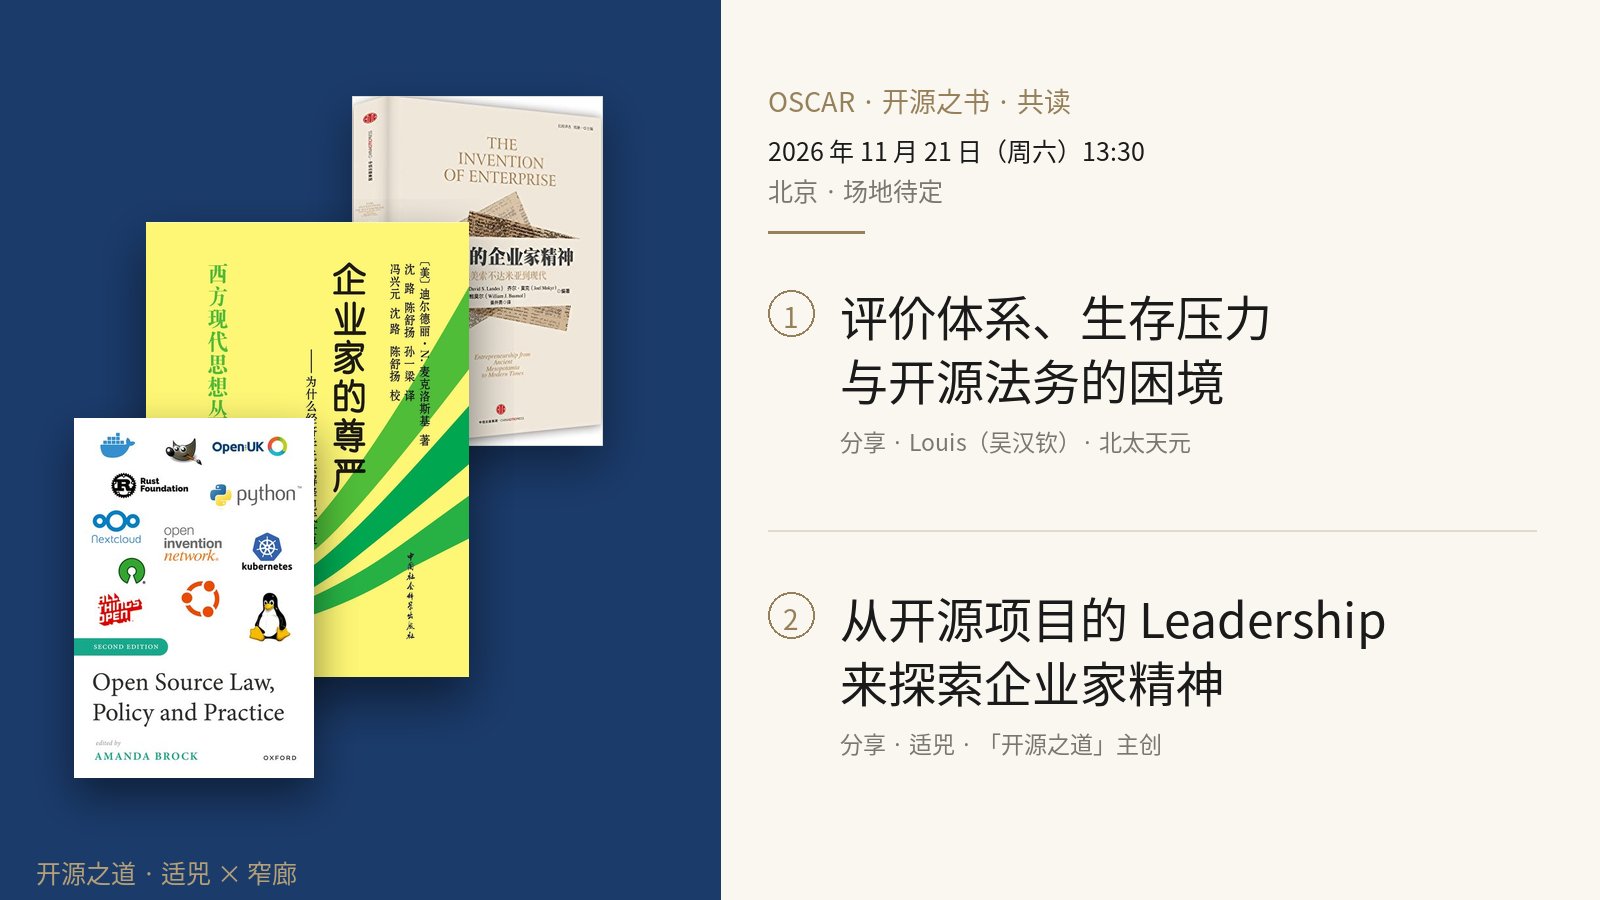
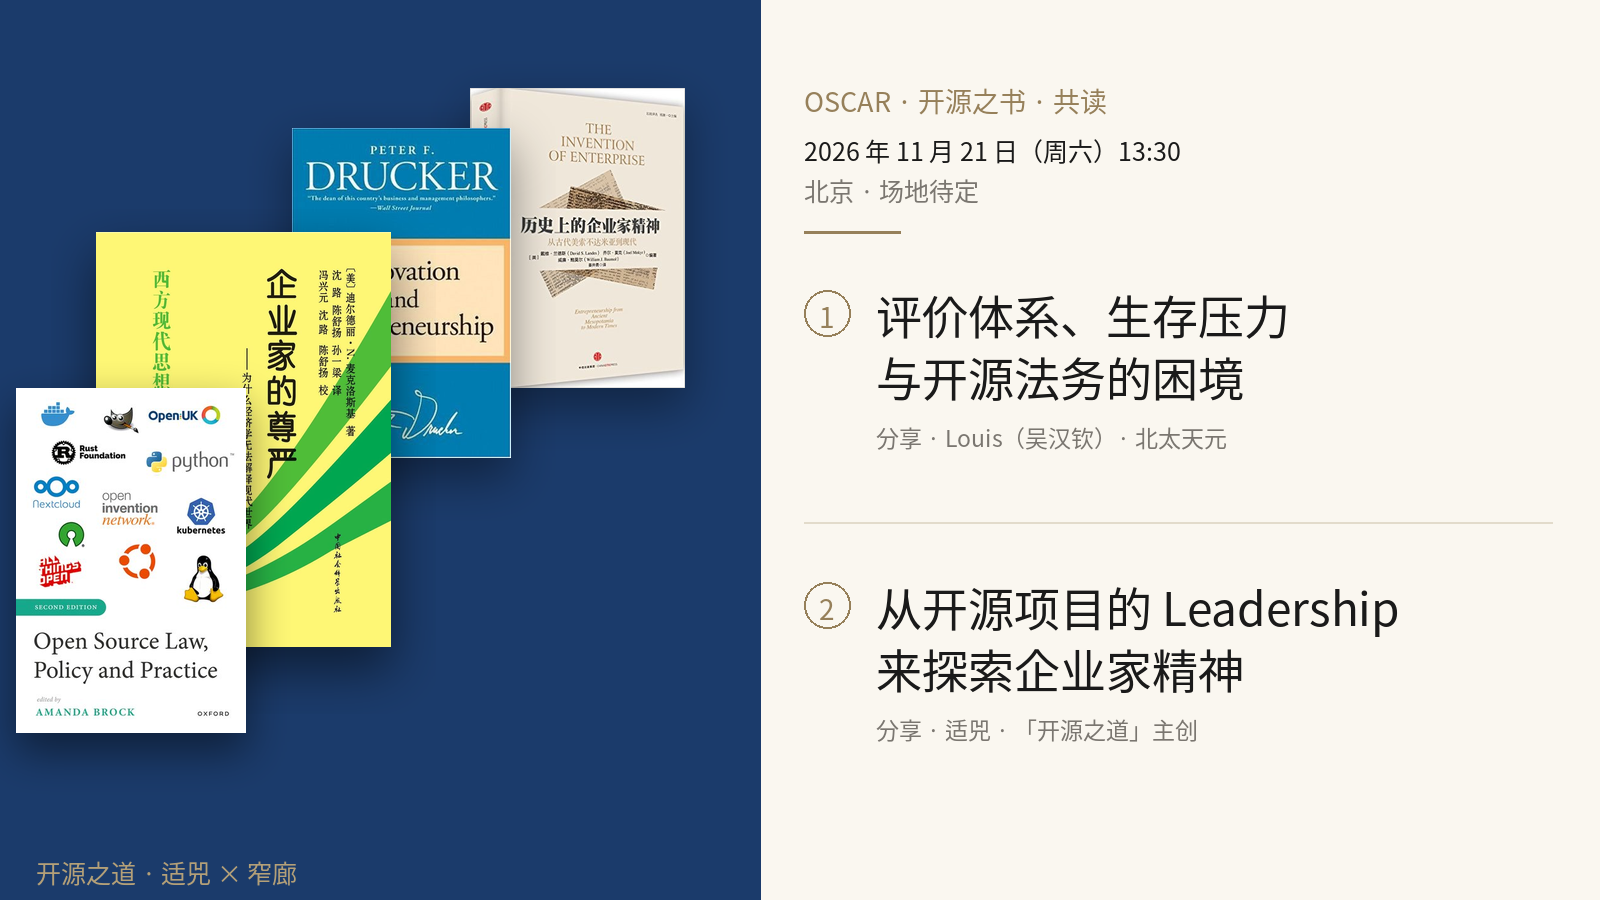
event: 11-21 纳入德鲁克《创新与企业家精神》，书目增至四本
适兕在写 niange-chain-and-ignition 时想到德鲁克，找出自己读过的
《创新与企业家精神》。评估后确认可以融入，且德鲁克在中国比
Mokyr、麦克洛斯基更知名，值得纳入。

## 定位：方案 C + 前者
德鲁克作为「第五位理论家」融入，而不是重述整个框架——保留原文
四节理论（熊彼特/奥地利学派/莫基尔/麦克洛斯基）的结构。

## 正面处理那个张力（正文核心改动）
原文章论断是「企业家精神不服从规划」，德鲁克开篇却说「任何有勇气
面对决策的人都能通过学习成为企业家，企业家精神是行动而非人格特征」。
这是正面冲突，不能回避，也不该和稀泥。

处理方式：区分「什么可规划」。
- 可规划的是**方法**：七个机遇来源、创新的原则与禁忌，可以印成手册
- 不可规划的是**动机与许可**：手册不会让人深夜看到意外事件还想追下去
- 落点：「规划者能规划的只有方法，规划不了的是动机与许可」；
  土壤的问题不是不教方法，而是学了方法的人不敢用、用了不算数

并驳掉「企业家爱冒险」这个流行说法：德鲁克认识的成功创新者里
没有一个有冒险倾向，他们的共同点是找出必须承受的风险再压到最低。

## 三个开源实操对应（避免理论悬空）
- 程序需要：Git 是 Linus 被 BitKeeper 卡住逼出来的，不是先有哲学
- 不协调：Raymond 的「用户越多 bug 越浅」与当时所有工程直觉相悖
- 产业与市场结构：开源起飞撞上「软件从产品变成服务」的结构位移
收束：「他们并非更爱冒险，而是看见了已经发生、但别人还没认出的变化」

## 书目
四本。德鲁克列第三（在《历史上的企业家精神》之后），并写清它与
《企业家的尊严》是**对照而非重复**：麦克洛斯基讲社会如何看待企业家
（土壤），德鲁克讲企业家自己怎么做（手艺）。

元数据从豆瓣条目核对：
- 中文：机械工业出版社 2018-11，蔡文燕译，彼得·德鲁克全集，
  ISBN 9787111602293，345 页，subject/30368721
- 英文：HarperBusiness 2006，ISBN 9780060851132，288 页，subject/2216912

## 缩略图
从三本改四本，仍是层叠堆叠：右上《历史上的企业家精神》、
中上德鲁克（蓝黄封面，英文版，适兕给的是英文条目）、
主位《企业家的尊严》、最前左下 OpenUK。
蓝块 760px，四书右边界最远 685，不溢出；底边 733，与署名 854 留 121px。
用英文版封面而非中文版，与适兕给的豆瓣链接一致。

Changed region(s): [[0.0, 0.0, 0.9688, 1.0]]

diff --git a/content/events/2026-11-21-beijing-reading-meetup.md b/content/events/2026-11-21-beijing-reading-meetup.md
@@ -7,7 +7,7 @@ title: "「OSCAR·开源之书·共读」线下分享交流·北京站·2026-11-
 subtitle: "「OSCAR·开源之书·共读」线下分享"
 location: "北京 · 场地待定（少于 5 人约咖啡厅，5 人以上征集场地赞助）"
 type: event
-summary: "两位分享者，两条看似无关的线。一位数学学院出身、现在做 MATLAB 国产替代的年轻人，想聊评价体系是否应该公开、基础学科的生存压力、算法开源的法律困境；另一位从开源项目里的领袖出发，追问企业家精神究竟能不能被「培养」。两条线最后指向同一个问题：当评价标准与人才都被预先规划，知识生产会变成对标准的迎合，还是对未知的追问。"
+summary: "两位分享者，两条看似无关的线。一位数学学院出身、现在做 MATLAB 国产替代的年轻人，想聊评价体系是否应该公开、基础学科的生存压力、算法开源的法律困境；另一位从开源项目里的领袖出发，追问企业家精神究竟能不能被「培养」。后一场会正面处理一个张力：德鲁克说企业家精神是可学习、可管理的行动，而开源领袖的经历又像是不服从规划——两者其实不冲突，可规划的是方法，不可规划的是动机与许可。两条线最后指向同一个问题：当评价标准与人才都被预先规划，知识生产会变成对标准的迎合，还是对未知的追问。"
 tags:
   - 共读
   - 线下
@@ -87,7 +87,38 @@ editable: true
 
 > **为什么企业家活动在有些时代是生产性的，在另一些时代却沦为寻租？**
 
-答案不在基因里，在土壤里。分享将给出「培养」范式与「企业家」范式的六维对照，并追问一句不太好听的话：**如果我们脚下的土壤迷恋确定性、可控与对每个变量的预先掌握，它能稳定产出的究竟是什么。**
+答案不在基因里，在土壤里。
+
+---
+
+**这里有一场必须当面处理的张力。**
+
+彼得·德鲁克在《创新与企业家精神》开篇给出一个几乎相反的判断：
+
+> 「任何有勇气面对决策的人，都能够通过学习成为一名企业家，并表现出企业家精神。因此，企业家精神是一种行动，而不是人格特征。」
+
+他甚至专门驳斥「企业家天生爱冒险」这个流行说法——他认识的成功创新者里，没有一个具有「冒险倾向」；他们的共同点是把必须承受的风险找出来，再压到最低。德鲁克认为，企业家精神**理论上应该是风险最低**的方式，所谓高风险多半来自「缺乏方法论、违背基本法则」。
+
+那么「不服从规划」与「可以学习」冲突吗？**不冲突，但必须分清是什么不可规划。**
+
+德鲁克给的是**方法**：创新的七个机遇来源（意外事件、不协调、程序需要、产业与市场结构、人口结构、认知变化、新知识）、创新的原则与禁忌。这些可以印成手册，发给所有人。
+
+不可规划的，是**谁愿意去用这套方法**——手册不会让人在深夜看到一个「意外事件」时有兴趣追下去。
+
+这套方法在开源史上有极具体的对应，本期会举三个：
+
+- **程序需要**：Git 不是先有版本控制哲学、再去找问题。是 Linus 维护内核时被 BitKeeper 卡住了，一个具体到不能再具体的薄弱环节，逼出了分布式版本控制。
+- **不协调**：Raymond 观察到的那个事实——「用户越多，bug 越浅」——与当时所有软件工程的直觉都不一致。大教堂与集市的争论，起点不是理论，是一个与常识矛盾的现象。
+- **产业与市场结构变化**：开源真正起飞，撞上「软件从产品变成服务」的结构位移。同一份代码，在卖许可证的世界里是成本，在卖服务的世界里是入口。
+
+三个例子指向同一件事：**他们并非比别人更爱冒险，而是看见了已经发生、但别人还没认出来的变化。**
+
+所以本期真正要追问的，不是「能不能培养」，而是：
+
+> **规划者能规划的只有方法，规划不了的是动机与许可。**
+> 土壤的问题从来不是不教方法，而是学了方法的人不敢用、用了不算数。
+
+在这层意义上，德鲁克与《企业家的尊严》说的是同一件事的两面：麦克洛斯基说企业家需要同时拥有**尊严与经济自由**，德鲁克说企业家精神是**可学习、可管理的行动**——两者合起来才是完整的判据：一种环境若既不给予尊严、也不允许行动，那它连「学方法」这一步都不会真的发生。
 
 **延伸阅读**：[从开源项目的 Leadership 来探索企业家精神](https://opensourceway.blog/posts/issues-musings/leader-as-entrepreneur/)（「开源之道」长文）
 
@@ -109,11 +140,12 @@ editable: true
 
 ### 延伸阅读
 
-本期分享涉及的背景书目共三本，分别对应两场分享：
+本期分享涉及的背景书目共四本，分别对应两场分享：
 
 - **《Open Source Law, Policy and Practice》** —— 第一位分享者（Louis）的法律与治理背景
 - **《企业家的尊严》** —— 第二位分享者（适兕）的核心论据，**最推荐这一本**
 - **《历史上的企业家精神》** —— 同上的史料支撑
+- **《创新与企业家精神》** —— 同上的方法论与张力所在，也是中文世界最熟悉的一本
 
 ---
 
@@ -190,6 +222,28 @@ editable: true
 
 ---
 
+**《创新与企业家精神》**
+
+- 作者：[美] 彼得·德鲁克（Peter F. Drucker）
+- 译者：蔡文燕
+- 出版：机械工业出版社，2018 年 11 月 ／ 彼得·德鲁克全集
+- ISBN：9787111602293 ／ 345 页
+- 英文原名：*Innovation and Entrepreneurship*（HarperBusiness, 2006；初版 1985）
+- 豆瓣（中文）：[https://book.douban.com/subject/30368721/](https://book.douban.com/subject/30368721/)
+- 豆瓣（英文）：[https://book.douban.com/subject/2216912/](https://book.douban.com/subject/2216912/)
+
+德鲁克在中国是被读得最多、也最容易被读偏的一位。他在这本书里做的，是把创新从「天才的灵光」改写成**一门可以学习的学科**，然后给出可操作的东西：
+
+- **创新的七个机遇来源**，按可靠性递减排列：意外事件、不协调、程序需要、产业和市场结构、人口结构、认知变化、新知识。前四个发生在组织或行业内部，后三个来自外部环境。
+- **新知识是最不可靠的一个来源**——这一点常被忽略。它周期最长、需要多种知识汇合、失败率最高，却是大众心目中「创新」的全部。
+- **创新的原则与禁忌**：要分析机遇、要走出去看、要简单、要从小处开始、要以领导地位为目标；不要自作聪明、不要分散、不要为未来而创新。
+
+**为什么这本对本期特别重要**：它和《企业家的尊严》构成一组对照而不是重复。麦克洛斯基讲的是**社会如何看待企业家**，德鲁克讲的是**企业家自己怎么做**。前者是土壤，后者是手艺。两本合起来才能回答那个提问——「如何培养出 Linus」这件事，「手艺」这一半确实可以教，「土壤」那一半才是真问题。
+
+> 全书 19 章不必读完。读引言、第 1—2 章（系统化的企业家精神、七个来源），再看第 11 章（创新的原则）即可抓住骨架。
+
+---
+
 ## 参与须知
 
 - 请遵守 [OSCAR 行为准则](https://www.opensourceway.blog/)
@@ -226,4 +280,4 @@ editable: true
 
 ---
 
-*本期参考：Amanda Brock（ed.）《Open Source Law, Policy and Practice》（Oxford University Press, 2023）；迪尔德丽·N. 麦克洛斯基《企业家的尊严》（中国社会科学出版社, 2018）；戴维·兰德斯、乔尔·莫基尔、威廉·鲍莫尔（编）《历史上的企业家精神》（中信出版社, 2016）；Louis（吴汉钦）开源之书·共读 CFP 投稿（2026-06-23）；适兕《从开源项目的 Leadership 来探索企业家精神》（「开源之道」，2026）*
+*本期参考：Amanda Brock（ed.）《Open Source Law, Policy and Practice》（Oxford University Press, 2023）；迪尔德丽·N. 麦克洛斯基《企业家的尊严》（中国社会科学出版社, 2018）；戴维·兰德斯、乔尔·莫基尔、威廉·鲍莫尔（编）《历史上的企业家精神》（中信出版社, 2016）；彼得·德鲁克《创新与企业家精神》（机械工业出版社, 2018；英文原版 HarperBusiness, 2006）；Louis（吴汉钦）开源之书·共读 CFP 投稿（2026-06-23）；适兕《从开源项目的 Leadership 来探索企业家精神》（「开源之道」，2026）*
